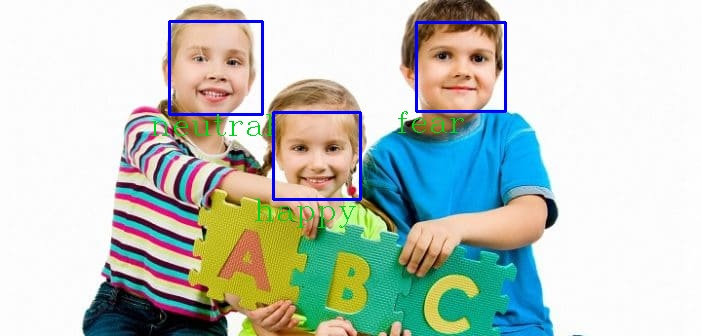
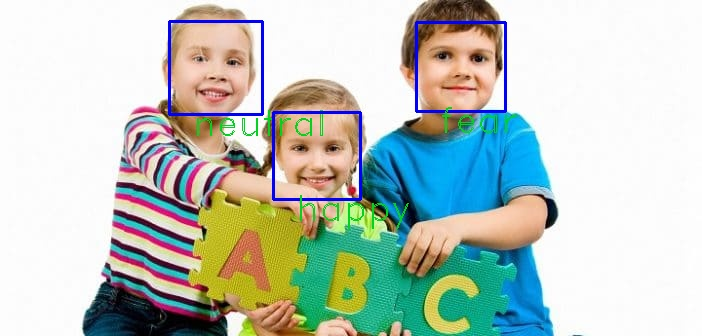
update

Changed region(s): [[0.2094, 0.3274, 0.4786, 0.4167], [0.359, 0.5952, 0.5983, 0.6845], [0.5684, 0.2976, 0.7479, 0.4167]]

diff --git a/src/routes/utils/face_utils.js b/src/routes/utils/face_utils.js
@@ -6,22 +6,31 @@ const image_utils = require('./image_utils');
 const classifier = new cv.CascadeClassifier(cv.HAAR_FRONTALFACE_ALT2); 
 const num_detections_th = 10;
 
-const do_classifier = async (image) => {
-    const path_to_image = image_utils.path_to_image('uploads',image);
+const read_image = async (from,image) => {
+    const path_to_image = image_utils.path_to_image(from,image);
     const img = await cv.imreadAsync(path_to_image);
+
+    return img;
+};
+
+const do_classifier = async (image) => {
+    const img = await read_image('uploads',image);
     const gray_img = await img.bgrToGrayAsync();
     const face_classifier = await classifier.detectMultiScaleAsync(gray_img); 
+
     return face_classifier;
 };
 
 const get_faces = async (face_classifier,image) => {
     const face_rects = face_classifier.objects; // return rect class
+
     if(face_rects.length === 0){
         throw new Error('Failed to detect faces');
     }
-    const path_to_image = image_utils.path_to_image('uploads',image);
-    const img = await cv.imreadAsync(path_to_image);
+
+    const img = await read_image('uploads',image);
     const gray_img = await img.bgrToGrayAsync();
+
     return face_rects.map(current => gray_img.getRegion(current)); // getRegion return Mat 
 };
 
@@ -33,20 +42,19 @@ const draw_blue_rect = (img,rect,thickness) => {
     draw_rect(img,rect,new cv.Vec3(255,0,0),thickness);
 };
 
-const write_text = (img,rect,content) => {
-    img.putText(content,new cv.Point2(rect.x + rect.width / 4,rect.y + rect.height + 20),2,1.2,new cv.Vec3(30,212,0));
+const write_text = (img,rect,index,content) => {
+    img.putText(index + ' - ' + content,new cv.Point2(rect.x,rect.y + rect.height + 30),2,1,new cv.Vec3(30,212,0));
 };
 
 const draw_rectangle_on_detected_face = async (face_classifier,image,content) => {
     const { objects, numDetections } = face_classifier;
-
-    const path_to_image = image_utils.path_to_image('uploads',image);
-    const img = await cv.imreadAsync(path_to_image);
+    const img = await read_image('uploads',image);
 
     objects.forEach((rect,index) => {
         const thickness = numDetections[index] < num_detections_th ? 1 : 2;
+
         draw_blue_rect(img,rect,thickness);
-        write_text(img,rect,content[index]);
+        write_text(img,rect,index,content[index]);
     });
     cv.imwrite(image_utils.path_to_image('detected','') + image,img);
 };
@@ -55,6 +63,7 @@ exports.get_all_faces = async (image) => {
     try{
         const face_classifier = await do_classifier(image);
         const list_of_faces = await get_faces(face_classifier,image);
+
         return list_of_faces;
     } catch(err){
         throw err;
@@ -64,6 +73,7 @@ exports.get_all_faces = async (image) => {
 exports.draw_detected_faces = async (image,content) => {
     try{
         const face_classifier = await do_classifier(image);
+
         await draw_rectangle_on_detected_face(face_classifier,image,content);
     } catch(err){
         throw err;

diff --git a/src/routes/emotion_recognition_router.js b/src/routes/emotion_recognition_router.js
@@ -22,16 +22,19 @@ const method = {
                 
                 const emotions_dict = {};
                 const content = [];
+
                 for(let i = 0;i < faces.length;++i){
                     let pixel = faces_dict[i].pixel_gray_scale_image; /// [][]
                     let emotion_predict = await emotion_utils.predict_emotion(pixel);
                     let cur_max = -1;
+
                     for(const [emotion,percentage] of Object.entries(emotion_predict)){
                         if(cur_max < percentage){
                             content[i] = emotion;
                             cur_max = percentage;
                         }
                     }
+
                     emotions_dict[i] = {
                         emotion : emotion_predict
                     };
@@ -40,7 +43,6 @@ const method = {
                 await face_utils.draw_detected_faces(request.params.image,content);
                 
                 response.status(200).json({
-                    status : 'OK',
                     emotions_from_image : emotions_dict,
                     image_display : `${config.host}:${config.port}/images/detected/${request.params.image}`
                 });
@@ -49,7 +51,7 @@ const method = {
             }
         } else {
             response.status(404).json({
-                status : `Not found an image with name: ${request.params.image}`
+                msg : `Not found an image with name: ${request.params.image}`
             });
         }
     }

diff --git a/src/routes/image_route.js b/src/routes/image_route.js
@@ -38,8 +38,7 @@ image_route.get('/uploaded/:image',(request,response) => {
         } else {
             response.setHeader('Content-Type','application/json');
             response.status(404).json({
-                status : 'Fail',
-                message : `Not found ${image_name}`
+                msg : `Not found ${image_name}`
             });
         }
     });
@@ -60,8 +59,7 @@ image_route.get('/detected/:image',(request,response) => {
         } else {
             response.setHeader('Content-Type','application/json');
             response.status(404).json({
-                status : 'Fail',
-                message : `Not found ${image_name}`
+                msg : `Not found ${image_name}`
             });
         }
     });

diff --git a/src/routes/utils/emotion_utils.js b/src/routes/utils/emotion_utils.js
@@ -29,12 +29,14 @@ exports.predict_emotion = async (image) => {
             }
         }
     }
+
     let input = tfCore.tensor(flat_image,[1,config.IMG_HEIGHT,config.IMG_WIDTH,config.CHANNELS]);
     let predict_result = tfmodel.predict(input);
     let emotion_percentage = await predict_result.array();
     let emotion_ret = {};
-    for(let i = 0;i < emotion.length;++i){
-        emotion_ret[emotion[i]] = Number.parseFloat(precise(emotion_percentage[0][i] * 100));
-    }
+
+    emotion_percentage[0].forEach((cur_value,index) => {
+        emotion_ret[emotion[index]] = Number.parseFloat(precise(cur_value * 100));
+    });
     return emotion_ret;
 };

diff --git a/src/routes/upload_router.js b/src/routes/upload_router.js
@@ -27,8 +27,7 @@ const upload = multer({
 upload_router.post('/',upload.single('image'),(request,response) => {
     response.setHeader('Content-Type','application/json'); 
     response.status(200).json({
-        status : "OK",
-        message : "Upload successfully!!",
+        msg : "Upload successfully!!",
         image_name : request.file.filename
     });
 });
